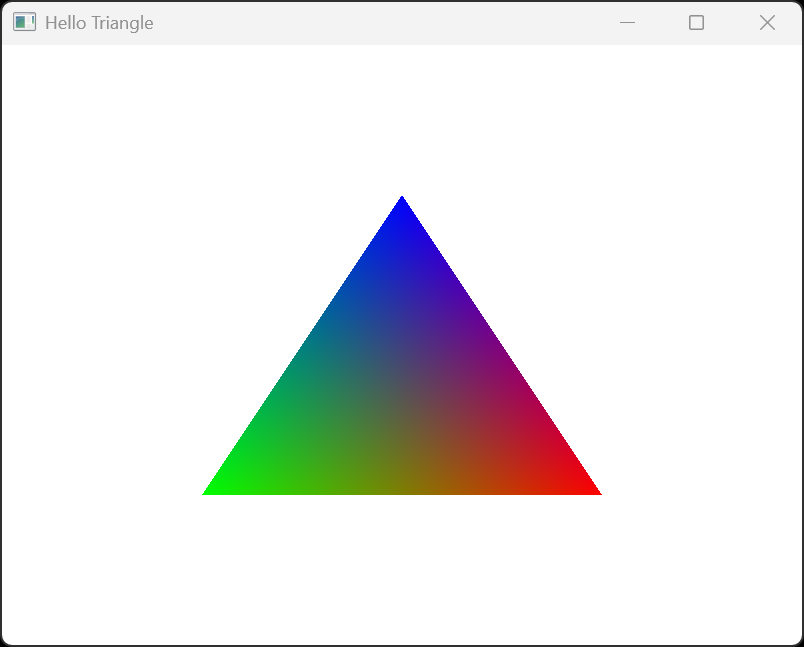
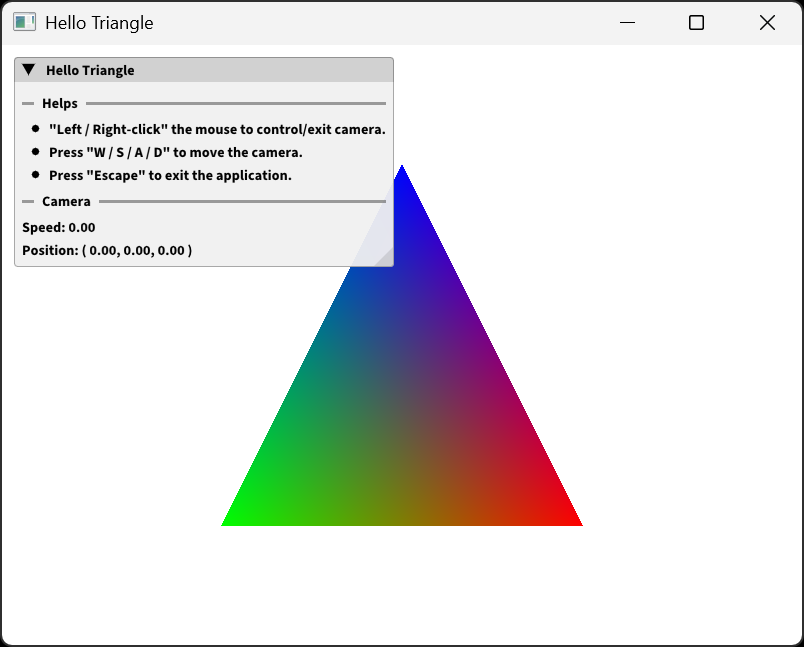
feat(sandbox): add ImGui and Camera to `hello_triangle`, makes this sample more instructive.

diff --git a/sandbox/hello_triangle/main.cc b/sandbox/hello_triangle/main.cc
@@ -1,9 +1,29 @@
+/**
+ * cabin-framework (https://github.com/anpydx/cabin)
+ *
+ * Copyright (c) 2025 anpyd, All Rights Reserved.
+ * Licensed under the MIT License.
+ *
+ *
+ * `Hello Triangle` is a sample application showing 
+ *  how to build a basic cabin sandbox-app with
+ *  ImGui and FPS-style camera integrated.
+ */
+
 #include <memory>
 #include <vector>
 
+#include <GLFW/glfw3.h>
+
 #include <glm/glm.hpp>
+#include <glm/ext/matrix_transform.hpp>
+#include <glm/ext/matrix_clip_space.hpp>
+
+#include <imgui.h>
+#include <imgui_impl_glfw.h>
 
 #include "cabin/sandbox.h"
+#include "cabin/utils/camera.h"
 #include "cabin/core/shader.h"
 #include "cabin/core/vertexbuffer.h"
 #include "cabin/core/indexbuffer.h"
@@ -44,9 +64,33 @@ public:
                             .setBuffer(indices.data(), indices.size(), GL_STATIC_DRAW)
                             .build()
         );
+
+        // Enable and initialize ImGui.
+        enableImGui();
+
+        // Prevent `imgui.ini` generation.
+        ImGui::GetIO().IniFilename = nullptr;
+
+        glfwSetWindowUserPointer(window, reinterpret_cast<void*>(this));
+
+        glfwSetMouseButtonCallback(window, [](GLFWwindow* window, int button, int action, int mods) {
+            // Pass mouse button input to ImGui (as we have called `glfwSetMouseButtonCallback` manully, which
+            //                                    overwrite the ImGui callback setted in `enableImGui`).
+            ImGui_ImplGlfw_MouseButtonCallback(window, button, action, mods);
+
+            // Determine whether the cursor is within ImGui windows.
+            if (ImGui::GetIO().WantCaptureMouse) return;
+
+            auto app = reinterpret_cast<HelloTriangle*>(glfwGetWindowUserPointer(window));
+
+            // Pass mouse button input to camera.
+            app->m_camera.mouseButtonCallback(window, button, action);
+        });
     }
 
     void renderFrame() override {
+        /* Write Render Logic Here ... */
+
         processInput();
 
         glClearColor(1.0f, 1.0f, 1.0f, 1.0f);
@@ -55,15 +99,52 @@ public:
         m_shader->bind();
         m_vertexBuffer->bind();
         m_indexBuffer->bind();
+
+        glm::mat4 model { 1.0f };
+        model = glm::translate(model, glm::vec3(0.0, 0.0, -1.0));
+        model = glm::scale(model, glm::vec3(0.5, 0.5, 1.0));
+        
+        glm::mat4 view = m_camera.getLookAt();
+
+        glm::mat4 projection;
+        auto [width, height] = getWindowSize();
+        // Prevent `height == 0` when window is minimized.
+        float aspect = static_cast<float>(width) / (height != 0.0f ? height : 1.0f);
+        projection = glm::perspective(glm::radians(45.0f), aspect, 0.1f, 50.0f);
+
+        m_shader->setMat4("model", model);
+        m_shader->setMat4("view", view);
+        m_shader->setMat4("projection", projection);
+
         glDrawElements(GL_TRIANGLES, m_indexBuffer->count, m_indexBuffer->storageType, nullptr);
+    }
+
+    void interfaceFrame() override {
+        /** Write UI Logic Here ... */
+
+        if (ImGui::Begin("Hello Triangle")) {
+            ImGui::SeparatorText("Helps");
+            ImGui::BulletText("\"Left / Right-click\" the mouse to control/exit camera.");
+            ImGui::BulletText("Press \"W / S / A / D\" to move the camera.");
+            ImGui::BulletText("Press \"Escape\" to exit the application.");
+
+            ImGui::SeparatorText("Camera");
+            ImGui::Text("Speed: %.2f", glm::length(m_camera.getSpeed()));
+            ImGui::Text("Position: ( %.2f, %.2f, %.2f )", m_camera.position.x, m_camera.position.y, m_camera.position.z);
+        }
+        ImGui::End();
     }
 
     void processInput() {
         if (glfwGetKey(window, GLFW_KEY_ESCAPE) == GLFW_PRESS)
             glfwSetWindowShouldClose(window, true);
+
+        // Update keyboard input and cursor position for camera.
+        m_camera.updateInput(window);
     }
 
 private:
+    utils::Camera m_camera { { 0.0f, 0.0f, 0.0f }, { 0.0, 0.0, -1.0 }, { 0.0, 1.0, 0.0 } };
     std::unique_ptr<core::Shader> m_shader;
     std::unique_ptr<core::VertexBuffer> m_vertexBuffer;
     std::unique_ptr<core::IndexBuffer> m_indexBuffer;
